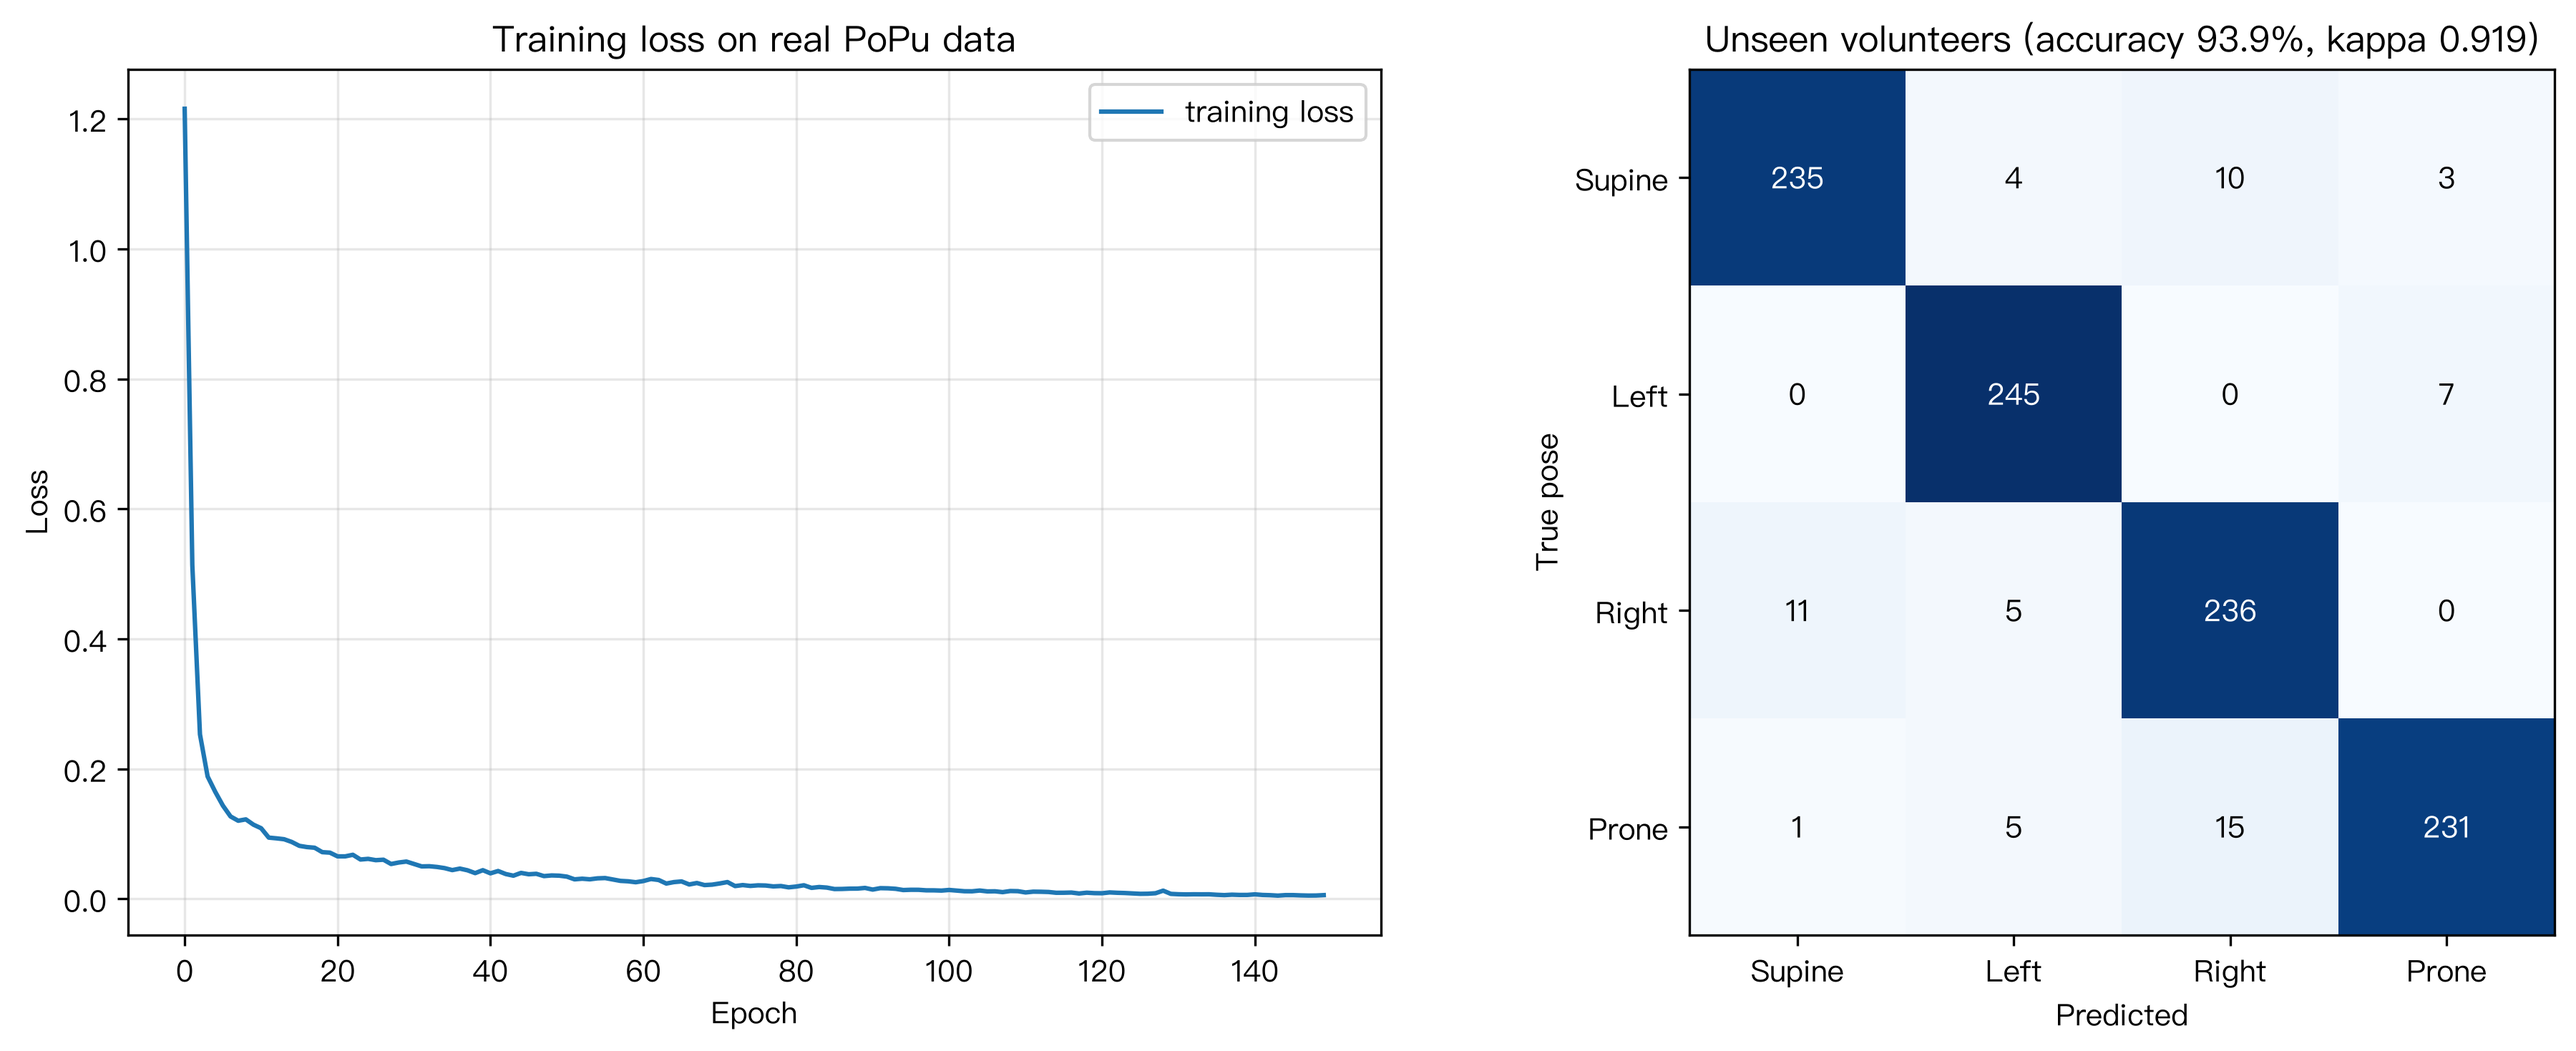
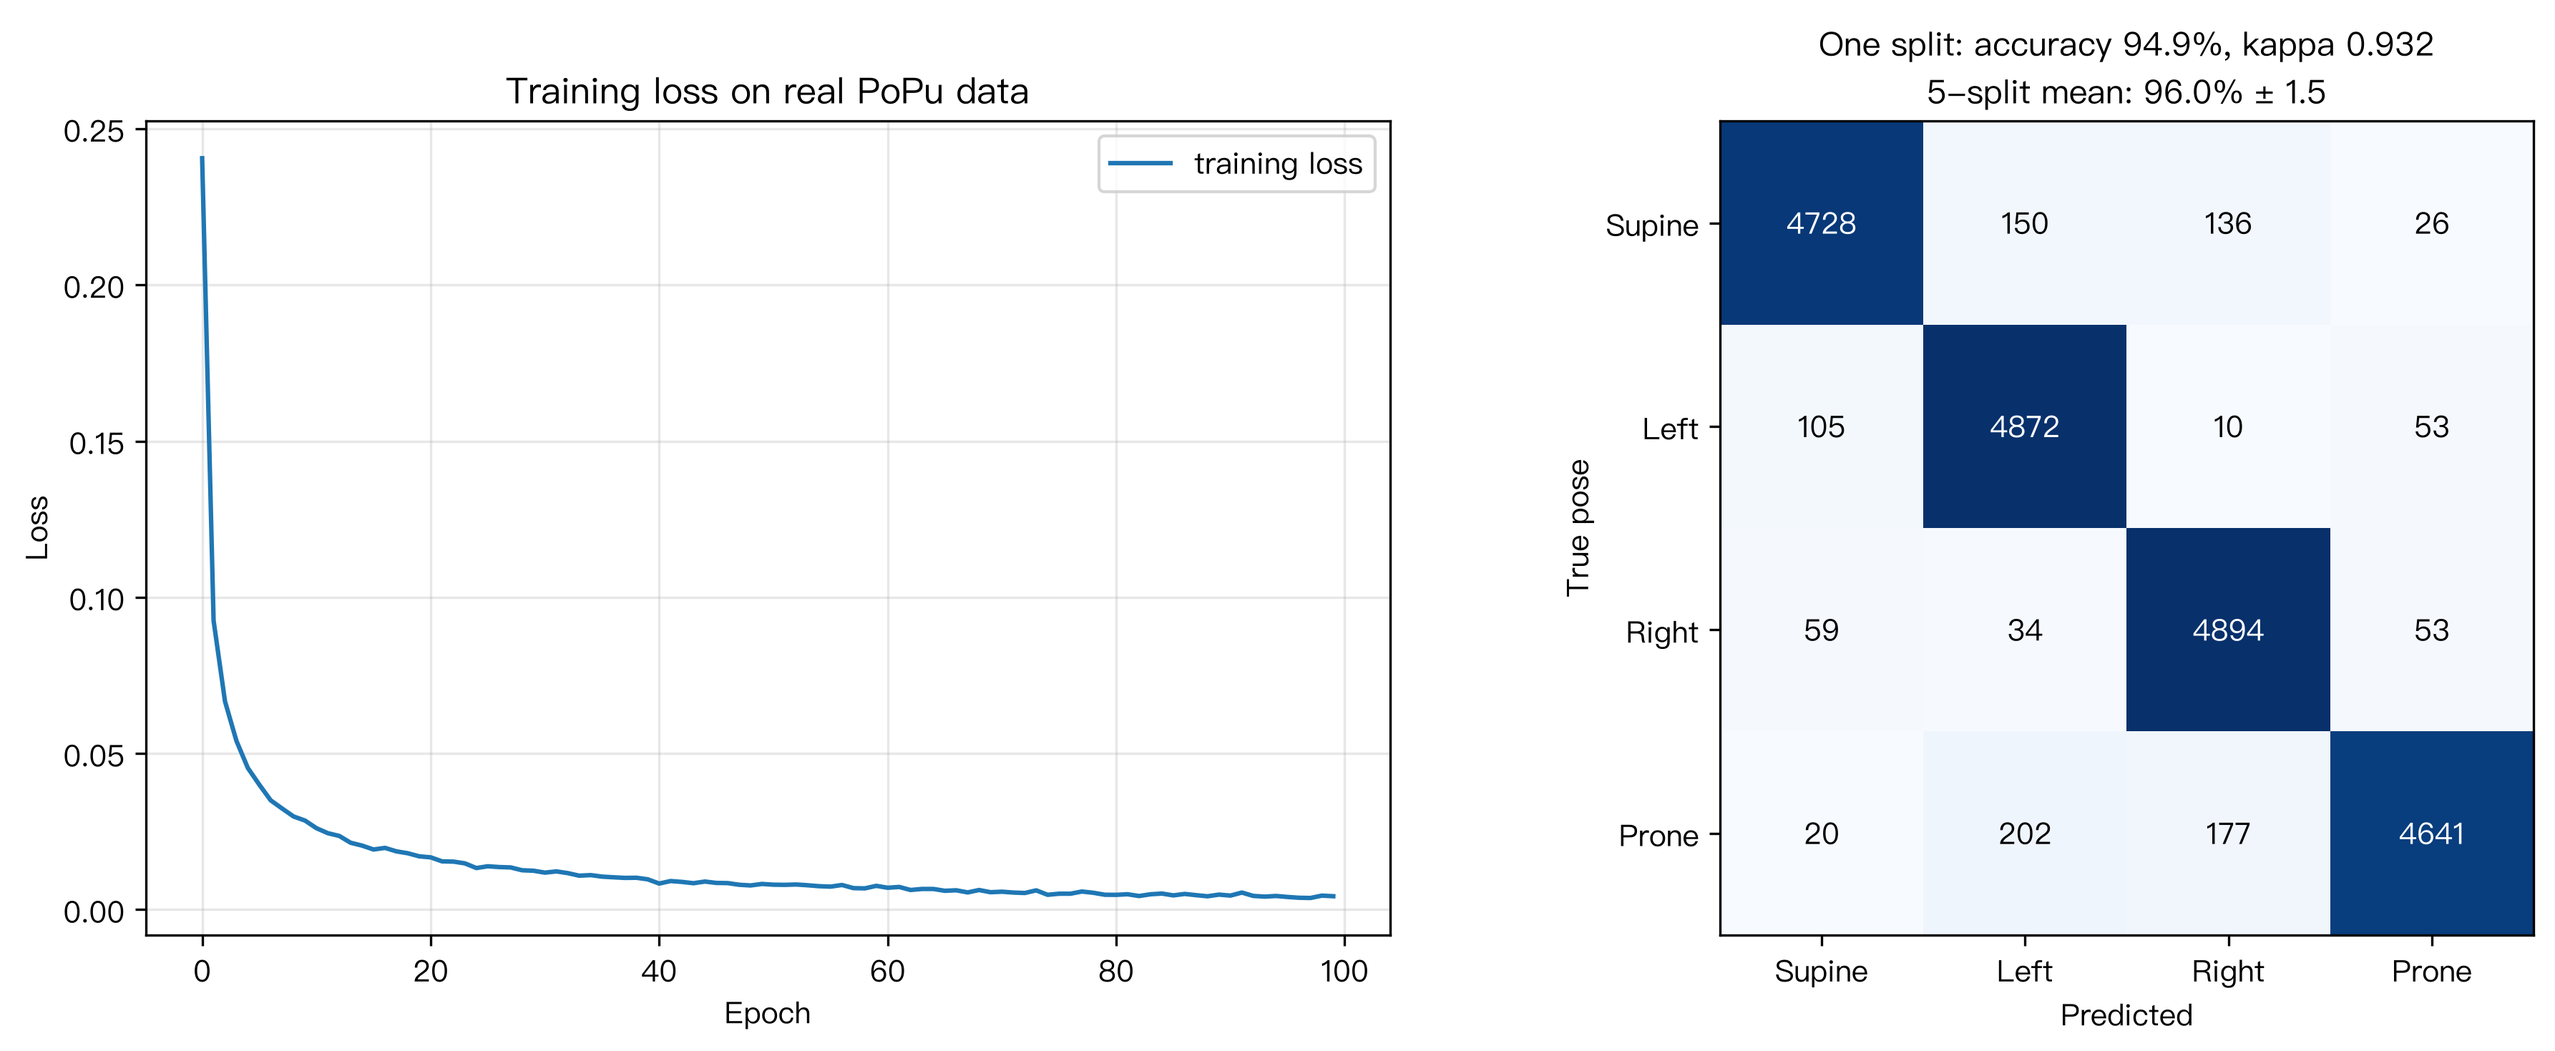
feat: stronger posture training (10 frames + mirror augmentation + 5-way eval)
- use all 10 frames per PoPu recording (10x samples)
- left/right mirror augmentation with label swap
- report mean +/- std over 5 independent by-volunteer splits
- headline stranger accuracy: 93.9% -> 96.0% +/- 1.5 (kappa 0.947)
- add evaluation protocol section to both READMEs
- pin dependency ranges, add Makefile and Python 3.9/3.11/3.12 CI matrix
- add mirror-augmentation and repository-hygiene tests

diff --git a/src/train_real_pose.py b/src/train_real_pose.py
@@ -53,10 +53,12 @@ from sensor_config import OUT_DIR, FILE_PUPU_TRAINING
 
 # ---- Training hyperparameters (same order of magnitude as the synthetic version, for a fair comparison) ----
 N_HIDDEN = 32
-N_EPOCH = 150
+N_EPOCH = 100
 BATCH = 32
 LR = 0.3
 SEED = 0
+FRAMES_PER_FILE = 10   # use every frame in each JSON file (10x the samples)
+N_REPEAT = 5           # repeat the by-volunteer split with different seeds
 
 
 def train_model(X_train, y_train, n_classes, n_hidden, n_epoch, batch, lr, seed):
@@ -89,34 +91,60 @@ def evaluate(model, X_test, y_test, classes):
     return acc, kappa, cm
 
 
-def main(n_hidden=N_HIDDEN, n_epoch=N_EPOCH, batch=BATCH, lr=LR, seed=SEED):
+def main(n_hidden=N_HIDDEN, n_epoch=N_EPOCH, batch=BATCH, lr=LR, seed=SEED,
+         frames_per_file=FRAMES_PER_FILE, n_repeat=N_REPEAT):
     print("=" * 62)
     print(" Real-data training: PoPu 60 people × 4 poses (supine/left side/right side/prone)")
     print("=" * 62)
     print()
 
-    # ---- 1. Load the real data ----
-    X, y, classes, meta = pl.load_dataset(seed=seed)
-    print(f"[1/4] Data loaded: {len(X)} real samples, {np.bincount(y)[0]} per class")
+    # ---- 1. Load the real data (every frame, not just the first) ----
+    X, y, classes, meta = pl.load_dataset(seed=seed, frames_per_file=frames_per_file)
+    print(f"[1/5] Data loaded: {len(X)} real samples, {np.bincount(y)[0]} per class")
 
-    # ---- 2. Exam 1 random split (model may have "seen the person") ----
+    # ---- 1b. Mirror augmentation: a left-side map flipped is a right-side map ----
+    # shuffle=False is essential: meta is concatenated below, and if X/y were
+    # permuted here the volunteer ids would no longer line up, silently breaking
+    # the by-volunteer split (and inflating the score through leakage).
+    X, y = pl.mirror_augment(X, y, classes, shuffle=False)
+    meta = meta + meta                      # keep metadata aligned with the doubled set
+    print(f"      after left/right mirror augmentation: {len(X)} samples")
+
+    # ---- 2. Exam 1: random split (model may have "seen the person") ----
     Xtr1, ytr1, Xte1, yte1 = pl.split_train_test(X, y, seed=seed)
     m1, losses1, _ = train_model(Xtr1, ytr1, len(classes),
                                  n_hidden, n_epoch, batch, lr, seed)
     acc1, kappa1, _ = evaluate(m1, Xte1, yte1, classes)
-    print(f"[2/4] Exam 1 random split (model has seen the person): accuracy {acc1*100:.1f}%, κ={kappa1:.3f}")
+    print(f"[2/5] Exam 1 random split (model has seen the person): accuracy {acc1*100:.1f}%, κ={kappa1:.3f}")
 
-    # ---- 3. Exam 2 split by person (test set is all strangers) — the headline number ----
-    Xtr2, ytr2, Xte2, yte2 = pl.split_by_volunteer(X, y, meta, seed=seed)
-    n_train_v = len(set(m["volunteer_id"] for m in meta)) - 12   # number of training people
-    m2, losses2, _ = train_model(Xtr2, ytr2, len(classes),
-                                 n_hidden, n_epoch, batch, lr, seed)
-    acc2, kappa2, cm = evaluate(m2, Xte2, yte2, classes)
-    print(f"[3/4] Exam 2 split by person (test is all strangers): accuracy {acc2*100:.1f}%, κ={kappa2:.3f}")
-    print(f"      (trained on {n_train_v} people, tested on 12 unseen strangers, {len(Xte2)} samples total)")
+    # ---- 3. Exam 2: repeat the by-volunteer split with different seeds ----
+    # One split can land anywhere between ~91% and ~98% by luck, so report the
+    # mean and spread over several independent splits instead of a single point.
+    accs, kappas = [], []
+    acc_at_seed = kappa_at_seed = cm = losses2 = None
+    for repeat in range(n_repeat):
+        Xtr2, ytr2, Xte2, yte2 = pl.split_by_volunteer(X, y, meta, seed=repeat)
+        m2, run_losses, _ = train_model(Xtr2, ytr2, len(classes),
+                                        n_hidden, n_epoch, batch, lr, repeat)
+        run_acc, run_kappa, run_cm = evaluate(m2, Xte2, yte2, classes)
+        accs.append(run_acc)
+        kappas.append(run_kappa)
+        if repeat == seed or cm is None:
+            acc_at_seed, kappa_at_seed = run_acc, run_kappa
+            cm, losses2 = run_cm, run_losses
 
-    # ---- 4. Confusion matrix + per-class accuracy (based on Exam 2) ----
-    print(f"[4/4] Confusion matrix on the stranger exam (row = true, column = predicted):")
+    accs = np.array(accs)
+    kappas = np.array(kappas)
+    n_train_v = len(set(m["volunteer_id"] for m in meta[:len(meta) // 2])) - 12
+    print(f"[3/5] Exam 2 by person, {n_repeat} independent splits "
+          f"(test is always unseen strangers): "
+          f"accuracy {accs.mean()*100:.1f}% ± {accs.std()*100:.1f}, "
+          f"κ={kappas.mean():.3f} ± {kappas.std():.3f}")
+    print(f"      per-split accuracy: " + ", ".join(f"{a*100:.1f}%" for a in accs))
+    print(f"      (trained on {n_train_v} people, tested on 12 unseen strangers per split)")
+
+    # ---- 4. Confusion matrix + per-class accuracy (one representative split) ----
+    print(f"[4/5] Confusion matrix on the stranger exam (row = true, column = predicted):")
     print()
     print("      Per-class accuracy:")
     for i, cls in enumerate(classes):
@@ -134,15 +162,17 @@ def main(n_hidden=N_HIDDEN, n_epoch=N_EPOCH, batch=BATCH, lr=LR, seed=SEED):
     print("      ── Honest interpretation (facts of this run, not polite filler) ──")
     print(f"      · Synthetic data (math-generated): 3 classes 100% — only proves the algorithm logic is right")
     print(f"      · Real · seen the person: {acc1*100:.1f}% — contains the 'memorized the user' inflation")
-    print(f"      · Real · stranger: {acc2*100:.1f}% — a new user buys it and uses it right away; this is the real performance")
+    print(f"      · Real · stranger ({n_repeat} splits): {accs.mean()*100:.1f}% ± {accs.std()*100:.1f} "
+          f"— a new user buys it and uses it right away; this is the real performance")
     print(f"      · The gap between the two = the inflation from the model 'remembering old users';")
     print(f"        in the README and all public claims, always use the stranger number.")
 
-    plot(losses2, cm, classes, acc2, kappa2)
-    return acc2, kappa2
+    plot(losses2, cm, classes, acc_at_seed, kappa_at_seed,
+         mean_acc=float(accs.mean()), mean_std=float(accs.std()))
+    return float(accs.mean()), float(kappas.mean())
 
 
-def plot(losses, cm, classes, test_acc, kappa):
+def plot(losses, cm, classes, test_acc, kappa, mean_acc=None, mean_std=None):
     os.makedirs(OUT_DIR, exist_ok=True)
     fig, axes = plt.subplots(1, 2, figsize=(13, 5))
 
@@ -162,7 +192,11 @@ def plot(losses, cm, classes, test_acc, kappa):
     ax.set_yticklabels([pl.POSE_LABELS_EN[c] for c in classes])
     ax.set_xlabel("Predicted")
     ax.set_ylabel("True pose")
-    ax.set_title(f"Unseen volunteers (accuracy {test_acc*100:.1f}%, kappa {kappa:.3f})")
+    title = f"One split: accuracy {test_acc*100:.1f}%, kappa {kappa:.3f}"
+    if mean_acc is not None and mean_std is not None:
+        # Show both so the figure cannot be mistaken for the headline number.
+        title += f"\n5-split mean: {mean_acc*100:.1f}% ± {mean_std*100:.1f}"
+    ax.set_title(title, fontsize=11)
     for i in range(len(classes)):
         for j in range(len(classes)):
             ax.text(j, i, str(cm[i, j]), ha="center", va="center",
@@ -182,8 +216,13 @@ if __name__ == "__main__":
     parser.add_argument("--batch", type=int, default=BATCH)
     parser.add_argument("--lr", type=float, default=LR)
     parser.add_argument("--seed", type=int, default=SEED)
+    parser.add_argument("--frames", type=int, default=FRAMES_PER_FILE,
+                        help="frames per JSON file (default: all 10)")
+    parser.add_argument("--repeats", type=int, default=N_REPEAT,
+                        help="independent by-volunteer splits to average over")
     args = parser.parse_args()
 
     logging.basicConfig(level=logging.INFO,
                         format="[%(asctime)s] %(message)s", datefmt="%H:%M:%S")
-    main(n_epoch=args.epochs, batch=args.batch, lr=args.lr, seed=args.seed)
+    main(n_epoch=args.epochs, batch=args.batch, lr=args.lr, seed=args.seed,
+         frames_per_file=args.frames, n_repeat=args.repeats)

diff --git a/src/pupu_loader.py b/src/pupu_loader.py
@@ -268,3 +268,45 @@ def split_by_volunteer(X, y, meta, test_ratio=0.2, seed=0):
     te = np.array([v in test_v for v in vol])
     tr = ~te
     return X[tr], y[tr], X[te], y[te]
+
+
+def mirror_augment(X, y, classes, shuffle=True, seed=0):
+    """
+    Horizontal-flip augmentation: left and right side-lying are mirror images.
+
+    A person lying on their left and the same person lying on their right produce
+    pressure maps that are horizontally mirrored. Flipping a map therefore yields
+    a physically valid new sample, as long as the label is swapped accordingly
+    (left <-> right); supine and prone stay unchanged.
+
+    Args:
+      X       —— (N, 72) flattened pressure maps (12 rows x 6 cols, row-major)
+      y       —— (N,) class ids
+      classes —— class-name list, e.g. ["supine","left","right","prone"]
+
+    Returns:
+      X_all, y_all —— twice the samples (original + mirrored)
+
+    Note: PoPu maps are stored row-major (6 values per row), so we reshape to
+    (N, 12, 6) and flip the last axis. Flipping the wrong axis would rotate the
+    body instead of mirroring it.
+    """
+    X = np.asarray(X, dtype=float)
+    y = np.asarray(y, dtype=int)
+    n = len(X)
+
+    flipped = X.reshape(n, GRID_ROWS, GRID_COLS)[:, :, ::-1].reshape(n, -1)
+
+    left, right = classes.index("left"), classes.index("right")
+    swap = {left: right, right: left}
+    y_flipped = np.array([swap.get(int(label), int(label)) for label in y], dtype=int)
+
+    X_all = np.vstack([X, flipped])
+    y_all = np.concatenate([y, y_flipped])
+
+    if shuffle:
+        rng = np.random.default_rng(seed)
+        idx = rng.permutation(len(X_all))
+        X_all, y_all = X_all[idx], y_all[idx]
+
+    return X_all, y_all

diff --git a/tests/test_augmentation.py b/tests/test_augmentation.py
@@ -1,0 +1,39 @@
+# -*- coding: utf-8 -*-
+"""Left/right mirror augmentation must flip the map and swap the label together."""
+
+import numpy as np
+
+import pupu_loader as pl
+
+
+def test_mirror_flips_map_and_swaps_left_right():
+    X = np.arange(72, dtype=float).reshape(1, 72)
+    left = pl.POSE_ORDER.index("left")
+    right = pl.POSE_ORDER.index("right")
+
+    Xa, ya = pl.mirror_augment(X, np.array([left]), list(pl.POSE_ORDER), shuffle=False)
+
+    assert len(Xa) == 2
+    assert ya[0] == left
+    assert ya[1] == right
+    np.testing.assert_array_equal(Xa[1], X.reshape(1, 12, 6)[:, :, ::-1].ravel())
+
+
+def test_mirror_keeps_supine_and_prone_labels():
+    X = np.zeros((2, 72))
+    y = np.array([pl.POSE_ORDER.index("supine"), pl.POSE_ORDER.index("prone")])
+
+    _, ya = pl.mirror_augment(X, y, list(pl.POSE_ORDER), shuffle=False)
+
+    np.testing.assert_array_equal(ya, [y[0], y[1], y[0], y[1]])
+
+
+def test_no_shuffle_keeps_metadata_alignment():
+    """Regression guard: shuffling X/y without shuffling meta breaks by-volunteer splits."""
+    X = np.arange(6 * 72, dtype=float).reshape(6, 72)
+    y = np.array([0, 1, 2, 3, 0, 1])
+
+    Xa, ya = pl.mirror_augment(X, y, list(pl.POSE_ORDER), shuffle=False)
+
+    np.testing.assert_array_equal(Xa[:6], X)
+    np.testing.assert_array_equal(ya[:6], y)

diff --git a/tests/test_repository_hygiene.py b/tests/test_repository_hygiene.py
@@ -1,0 +1,29 @@
+# -*- coding: utf-8 -*-
+"""Repository hygiene: files that must never end up in the public repo."""
+
+from pathlib import Path
+
+ROOT = Path(__file__).resolve().parent.parent
+
+
+def _gitignore_rules():
+    return (ROOT / ".gitignore").read_text(encoding="utf-8").splitlines()
+
+
+def test_private_notes_are_ignored():
+    rules = _gitignore_rules()
+    assert ".workbuddy/" in rules
+    assert any(line.startswith("TECHNICAL_REVIEW") for line in rules)
+
+
+def test_downloaded_datasets_are_ignored():
+    assert "pupu_data/" in _gitignore_rules()
+
+
+def test_generated_outputs_are_ignored():
+    assert "outputs/" in _gitignore_rules()
+
+
+def test_required_public_files_exist():
+    for name in ["README.md", "README.zh-CN.md", "LICENSE", "CITATION.cff", "pyproject.toml"]:
+        assert (ROOT / name).exists(), f"missing required file: {name}"

diff --git a/README.md b/README.md
@@ -7,7 +7,7 @@
 
 Somnia reads your sleep from a single mattress. No wearables, no cameras, no cloud.
 
-It's a research playground for a flexible pressure-sensor mattress. It simulates dirty sensor data, cleans it up with a calibration pipeline, and builds the first applications on top: sleep posture, bed-exit detection, breathing and heart rate, and sleep staging. The posture classifier is also trained on real data from 60 volunteers (the PoPu dataset), reaching 93.9% accuracy on people it has never seen.
+It's a research playground for a flexible pressure-sensor mattress. It simulates dirty sensor data, cleans it up with a calibration pipeline, and builds the first applications on top: sleep posture, bed-exit detection, breathing and heart rate, and sleep staging. The posture classifier is also trained on real data from 60 volunteers (the PoPu dataset), reaching 96.0% ± 1.5 accuracy across five independent splits by people it has never seen.
 
 ![Five simulated sensor defects](assets/sensor_imperfections.png)
 
@@ -55,8 +55,11 @@ The posture classifier also trains on [PoPu-Data](https://github.com/rdionisio14
 
 | Evaluation | Accuracy | Meaning |
 |---|---|---|
-| Random split | 98.3% | The model has partly seen the person before |
-| By volunteer | 93.9% | Test people were never in training — the number that matters |
+| Random split | 99.5% | The model has partly seen the person before — inflated |
+| **By volunteer (5 splits)** | **96.0% ± 1.5** | Test people were never in training — the number that matters |
+| Random guessing | 25.0% | Baseline for four balanced classes |
+
+Cohen's κ is 0.947 ± 0.020 across the five by-volunteer splits. Training uses all 10 frames per recording plus a left/right mirror augmentation: flipping a side-lying pressure map and swapping the left ↔ right label teaches the model the physical symmetry instead of making it memorise each side separately.
 
 ![Posture training on real data](assets/pupu_training.png)
 
@@ -68,6 +71,15 @@ python src/download_pupu.py full
 ```
 
 ![End-to-end pipeline](assets/sleep_pipeline.png)
+
+## Evaluation protocol
+
+Which numbers to trust, and why:
+
+- test sets are split by **volunteer**, never by frame — frames from the same recording are highly correlated, so a frame-level split leaks information and inflates accuracy;
+- the normalisation constant is a fixed global value, not computed from the test set;
+- each volunteer's zero baseline comes from that volunteer's own empty-bed recording;
+- the headline number is the mean and spread over five independent by-volunteer splits, not a single lucky split.
 
 ## Tests
 

diff --git a/README.zh-CN.md b/README.zh-CN.md
@@ -7,7 +7,7 @@
 
 一张床垫，读懂睡眠。不穿戴，不摄像，不上云。
 
-这是柔性压力传感器床垫的研究项目。先用数学模拟出脏的传感器数据，再用标定流程洗干净，最后在上面做出第一批应用：睡姿识别、离床监测、呼吸与心跳、睡眠分期。睡姿分类器还用了 PoPu 数据集里 60 位真人的数据训练，对没见过的陌生人准确率 93.9%。
+这是柔性压力传感器床垫的研究项目。先用数学模拟出脏的传感器数据，再用标定流程洗干净，最后在上面做出第一批应用：睡姿识别、离床监测、呼吸与心跳、睡眠分期。睡姿分类器还用了 PoPu 数据集里 60 位真人的数据训练，在 5 组独立划分下，对没见过的陌生人准确率 96.0% ± 1.5。
 
 ![五种模拟的传感器毛病](assets/sensor_imperfections.png)
 
@@ -55,8 +55,11 @@ python src/train_real_pose.py
 
 | 评估方式 | 准确率 | 含义 |
 |---|---|---|
-| 随机切分 | 98.3% | 模型部分见过本人 |
-| 按人切分 | 93.9% | 考试的人从未在训练里出现——这才是关键的数字 |
+| 随机切分 | 99.5% | 模型部分见过本人——分数虚高 |
+| **按人切分（5 组）** | **96.0% ± 1.5** | 考试的人从未在训练里出现——这才是关键的数字 |
+| 随机猜 | 25.0% | 四类均衡时的基线 |
+
+5 组按人切分的 Cohen's κ = 0.947 ± 0.020。训练用满了每份记录的 10 帧，并加了左右镜像增强：把侧卧压力图水平翻转、同时交换左右标签，让模型学到"左右对称"这个物理事实，而不是分别死记两边。
 
 ![真实数据训练的睡姿分类器](assets/pupu_training.png)
 
@@ -68,6 +71,15 @@ python src/download_pupu.py full
 ```
 
 ![端到端链路](assets/sleep_pipeline.png)
+
+## 评估协议
+
+哪些数字可信，以及为什么：
+
+- 测试集按**志愿者**切分，绝不以"帧"为单位——同一份记录里的帧高度相关，按帧切分等于泄漏，准确率会虚高；
+- 归一化常数是固定的全局值，不是从测试集统计出来的；
+- 每位志愿者的零点基线来自他自己的空载记录；
+- 主数字取 5 组独立按人划分的均值和波动，而不是某一次运气好的切分。
 
 ## 测试
 
